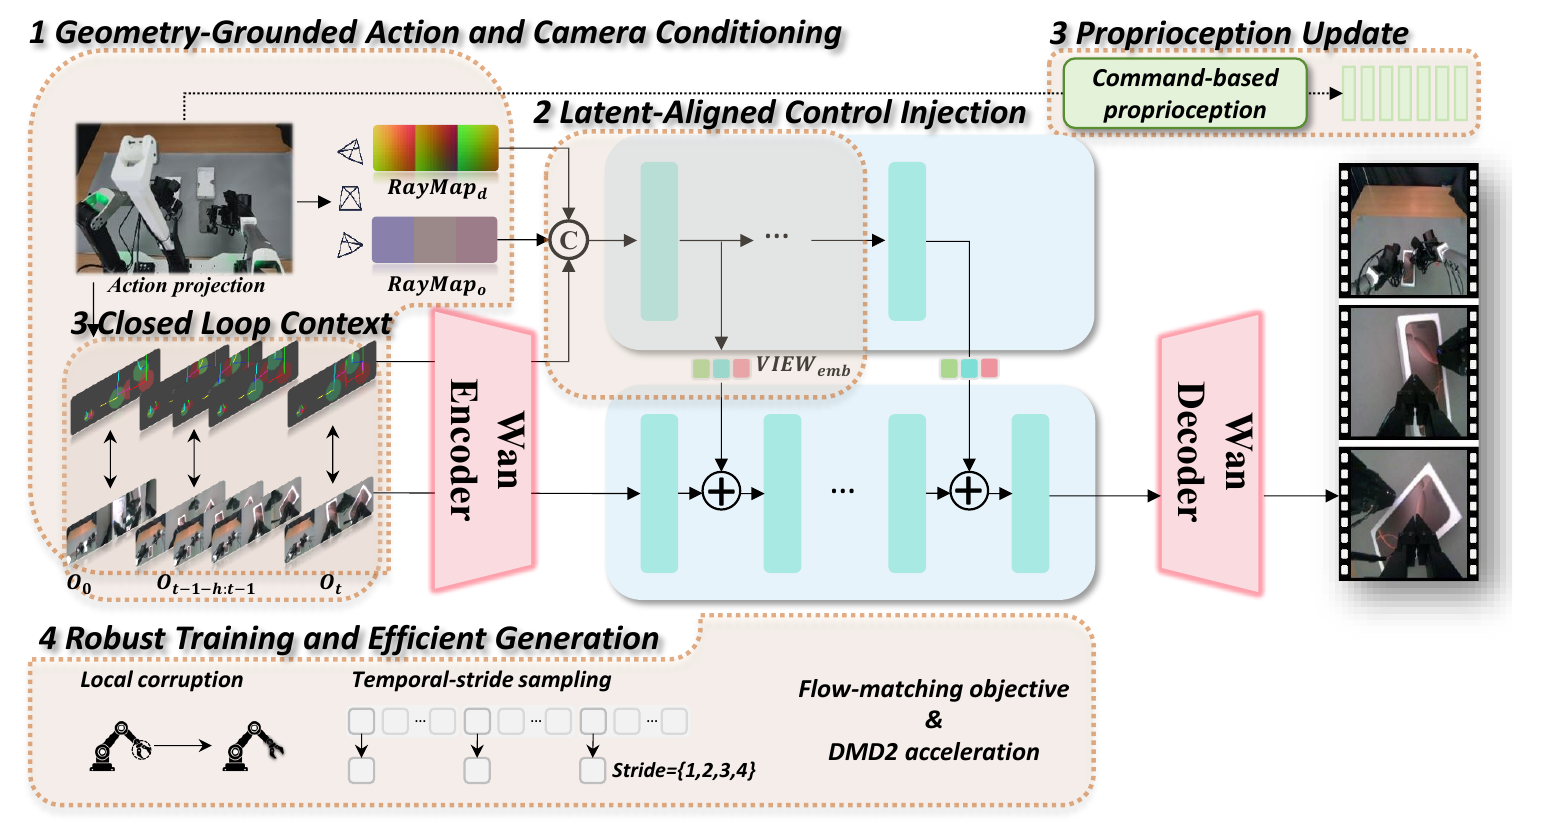
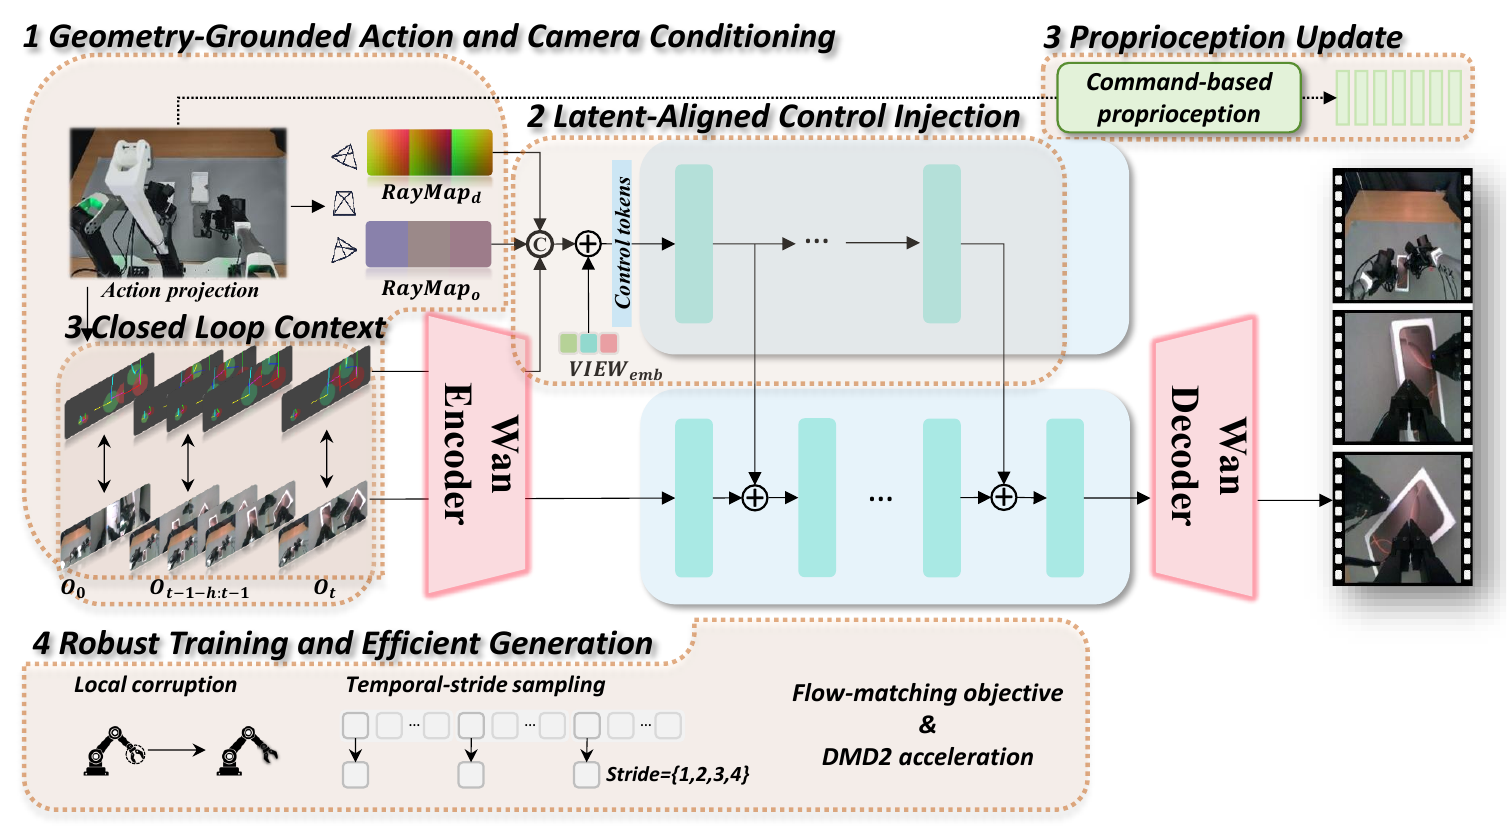
Refresh anonymous manuscript figures and abstract

Changed region(s): [[0.0, 0.0, 1.0, 0.9664], [0.6839, 0.9353, 0.7149, 0.9664]]

diff --git a/index.html b/index.html
@@ -175,13 +175,13 @@
       <h3>WoVR: The Shared WM-RL Framework</h3>
       <p>WoVR treats the world model as a generative simulator and controls hallucination at three complementary levels: simulator-level control, interaction-level reshaping, and policy-model alignment.</p>
       <figure class="paper-figure">
-        <a href="assets/figures/wovr-framework-latest.png" target="_blank" rel="noopener noreferrer" aria-label="Open WoVR: controllable simulator, reliable interaction, and policy-model alignment at full resolution"><img src="assets/figures/wovr-framework-latest.png" alt="WoVR: controllable simulator, reliable interaction, and policy-model alignment" width="1512" height="876" loading="lazy" decoding="async"></a>
+        <a href="assets/figures/wovr-framework-latest.png" target="_blank" rel="noopener noreferrer" aria-label="Open WoVR: controllable simulator, reliable interaction, and policy-model alignment at full resolution"><img src="assets/figures/wovr-framework-latest.png" alt="WoVR: controllable simulator, reliable interaction, and policy-model alignment" width="1512" height="1068" loading="lazy" decoding="async"></a>
       </figure>
 
       <h3>Extensions and Scope</h3>
       <p>WoVR+ preserves this reliability-oriented framework while redesigning its learned environment, exploration, and imagined interaction protocol for multi-view VLA policies and long-horizon, multi-stage manipulation.</p>
       <figure class="paper-figure extensions-overview-figure">
-        <a href="assets/figures/extensions-latest.png" target="_blank" rel="noopener noreferrer" aria-label="Open Vanilla WM-RL and WoVR+: VLA-aligned learned environment, coherent exploration, and stage-local optimization at full resolution"><img src="assets/figures/extensions-latest.png" alt="Vanilla WM-RL and WoVR+: VLA-aligned learned environment, coherent exploration, and stage-local optimization" width="1458" height="1554" loading="lazy" decoding="async"></a>
+        <a href="assets/figures/extensions-latest.png" target="_blank" rel="noopener noreferrer" aria-label="Open WoVR+ overview: VLA-aligned world model, temporally coherent exploration, and stage-local imagined optimization at full resolution"><img src="assets/figures/extensions-latest.png" alt="WoVR+ overview: VLA-aligned world model, temporally coherent exploration, and stage-local imagined optimization" width="3018" height="1602" loading="lazy" decoding="async"></a>
       </figure>
       <ul class="extension-list">
         <li><strong>Extended and redesigned.</strong> WoVR+ retains first-frame anchoring and extends it to an anchored sparse history. The single-view, delta-EEF formulation with vector action conditioning is replaced by a VLA-aligned multi-view interface with absolute joint-and-gripper commands, geometry-grounded action and camera conditioning, and command-based proprioceptive updates.</li>
@@ -195,7 +195,7 @@
       <article class="method-block" id="method-world-model" aria-labelledby="world-model-title">
         <h3 id="world-model-title">VLA-Aligned Multi-View World Model</h3>
       <figure class="paper-figure">
-        <a href="assets/figures/world-model-latest.png" target="_blank" rel="noopener noreferrer" aria-label="Open Geometry-grounded conditioning, latent-aligned control injection, proprioceptive updates, closed-loop context, and efficient generation at full resolution"><img src="assets/figures/world-model-latest.png" alt="Geometry-grounded conditioning, latent-aligned control injection, proprioceptive updates, closed-loop context, and efficient generation" width="1548" height="834" loading="lazy" decoding="async"></a>
+        <a href="assets/figures/world-model-latest.png" target="_blank" rel="noopener noreferrer" aria-label="Open Geometry-grounded conditioning, latent-aligned control injection, proprioceptive updates, closed-loop context, and efficient generation at full resolution"><img src="assets/figures/world-model-latest.png" alt="Geometry-grounded conditioning, latent-aligned control injection, proprioceptive updates, closed-loop context, and efficient generation" width="1512" height="840" loading="lazy" decoding="async"></a>
       </figure>
         <ul class="method-points">
           <li><strong>Geometry-grounded control.</strong> Absolute joint commands are projected into per-view action maps. Camera ray maps and view embeddings condition a parallel DiT control branch for synchronized head and wrist prediction.</li>
@@ -242,11 +242,11 @@
               <tr><th scope="row">Ctrl-World</th><td>5</td><td>0.318</td><td>73.22</td><td>229.83</td><td>0.812</td><td>16.39</td><td>0.350</td><td>117.45</td><td>305.39</td><td>0.863</td><td>22.38</td><td>4.16</td></tr>
               <tr><th scope="row">Ctrl-World</th><td>50</td><td>0.305</td><td>47.16</td><td>147.46</td><td>0.802</td><td>15.86</td><td>0.346</td><td>73.67</td><td>186.66</td><td>0.849</td><td>22.14</td><td>0.53</td></tr>
               <tr><th scope="row">EVAC</th><td>27</td><td>0.337</td><td>50.93</td><td>196.72</td><td>0.768</td><td>13.76</td><td>0.328</td><td>68.49</td><td>185.15</td><td>0.833</td><td>20.89</td><td>1.71</td></tr>
-              <tr><th scope="row">WoVR (single view)</th><td>5</td><td>0.182</td><td><span class="second-best">20.74</span></td><td>75.09</td><td>0.858</td><td>19.12</td><td>–</td><td>–</td><td>–</td><td>–</td><td>–</td><td>22.56</td></tr>
-              <tr><th scope="row">WoVR (three views)</th><td>5</td><td>0.231</td><td>27.01</td><td>109.33</td><td>0.825</td><td>16.96</td><td>0.269</td><td>47.55</td><td>124.41</td><td>0.825</td><td>23.16</td><td>14.01</td></tr>
+              <tr><th scope="row">WoVR (1 view)</th><td>5</td><td>0.182</td><td><span class="second-best">20.74</span></td><td>75.09</td><td>0.858</td><td>19.12</td><td>–</td><td>–</td><td>–</td><td>–</td><td>–</td><td>22.56</td></tr>
+              <tr><th scope="row">WoVR (3 views)</th><td>5</td><td>0.231</td><td>27.01</td><td>109.33</td><td>0.825</td><td>16.96</td><td>0.269</td><td>47.55</td><td>124.41</td><td>0.825</td><td>23.16</td><td>14.01</td></tr>
               <tr class="ours"><th scope="row">WoVR+</th><td>5</td><td><strong>0.148</strong></td><td>22.45</td><td>62.16</td><td><strong>0.883</strong></td><td><strong>22.28</strong></td><td><span class="second-best">0.204</span></td><td><span class="second-best">44.10</span></td><td><span class="second-best">81.33</span></td><td><strong>0.894</strong></td><td><strong>29.77</strong></td><td>9.41</td></tr>
               <tr class="ours"><th scope="row">WoVR+</th><td>50</td><td><span class="second-best">0.153</span></td><td><strong>19.92</strong></td><td><strong>49.61</strong></td><td><span class="second-best">0.877</span></td><td>21.86</td><td><strong>0.203</strong></td><td><strong>35.96</strong></td><td><strong>65.77</strong></td><td>0.888</td><td><span class="second-best">29.39</span></td><td>1.78</td></tr>
-              <tr class="ours"><th scope="row">WoVR+-DMD</th><td>1</td><td>0.163</td><td>23.59</td><td><span class="second-best">57.41</span></td><td><span class="second-best">0.877</span></td><td><span class="second-best">22.20</span></td><td>0.236</td><td>53.58</td><td>106.15</td><td><span class="second-best">0.889</span></td><td>28.79</td><td>15.03</td></tr>
+              <tr class="ours"><th scope="row">WoVR+ (DMD)</th><td>1</td><td>0.163</td><td>23.59</td><td><span class="second-best">57.41</span></td><td><span class="second-best">0.877</span></td><td><span class="second-best">22.20</span></td><td>0.236</td><td>53.58</td><td>106.15</td><td><span class="second-best">0.889</span></td><td>28.79</td><td>15.03</td></tr>
             </tbody>
           </table>
         </div>
@@ -428,9 +428,9 @@
     <hr>
     <section id="abstract" aria-labelledby="abstract-title">
       <h2 id="abstract-title">Abstract</h2>
-      <p>Action-conditioned world models can reduce costly real-robot interaction in reinforcement learning for Vision-Language-Action models (VLA-RL), but hallucinations can mislead policy optimization. Extending them to richer VLA interfaces and long-horizon tasks requires interface alignment, reliable exploration, and stage-wise learning.</p>
-      <p>We present WoVR+, extending WoVR’s hallucination-aware WM-RL framework to these settings by redesigning the learned environment and imagined interaction protocol: A VLA-interface-aligned world model provides multi-view prediction and proprioceptive updates while mitigating hallucinations. Chunk-wise noise preserves exploration for flow-based policies while limiting action jitter that degrades model predictions. For long-horizon tasks, stage-local imagined training combines stage-entry resets, stage-specific rewards, local horizons, and controllable sampling to shorten generated prefixes and balance training across stages.</p>
-      <p>WoVR+ improves success over SFT by 21.09% and 16.7% on RoboTwin and six real-robot tasks. Long-horizon phone-packaging success rises from 30% to 75%.</p>
+      <p>Action-conditioned world models can reduce costly real-robot interaction in reinforcement learning for Vision-Language-Action models (VLA-RL), but hallucinations can mislead policy optimization. Extending them to richer VLA interfaces and long-horizon tasks raises challenges in spatiotemporal and cross-modal consistency, exploration–reliability balance in RL, and compounding rollout errors.</p>
+      <p>We present WoVR+, extending WoVR’s hallucination-aware WM-RL framework by redesigning the learned environment and imagined interaction protocol: A VLA-interface-aligned world model provides multi-view prediction and proprioceptive updates while mitigating hallucinations. Chunk-wise noise preserves flow-based policy exploration while limiting prediction-degrading action jitter. For long-horizon tasks, stage-local imagined training combines stage-entry resets, stage-specific rewards, local horizons, and controllable sampling to shorten generated prefixes and balance training across stages.</p>
+      <p>WoVR+ improves success over SFT by 21.09% and 16.7% on RoboTwin and 6 real-robot tasks. Long-horizon phone-packaging success rises from 30% to 75%.</p>
     </section>
     <section id="wm-replay" aria-labelledby="wm-replay-title">
       <h2 id="wm-replay-title">GT vs. WoVR+ World Model: Same-Action Replay</h2>
